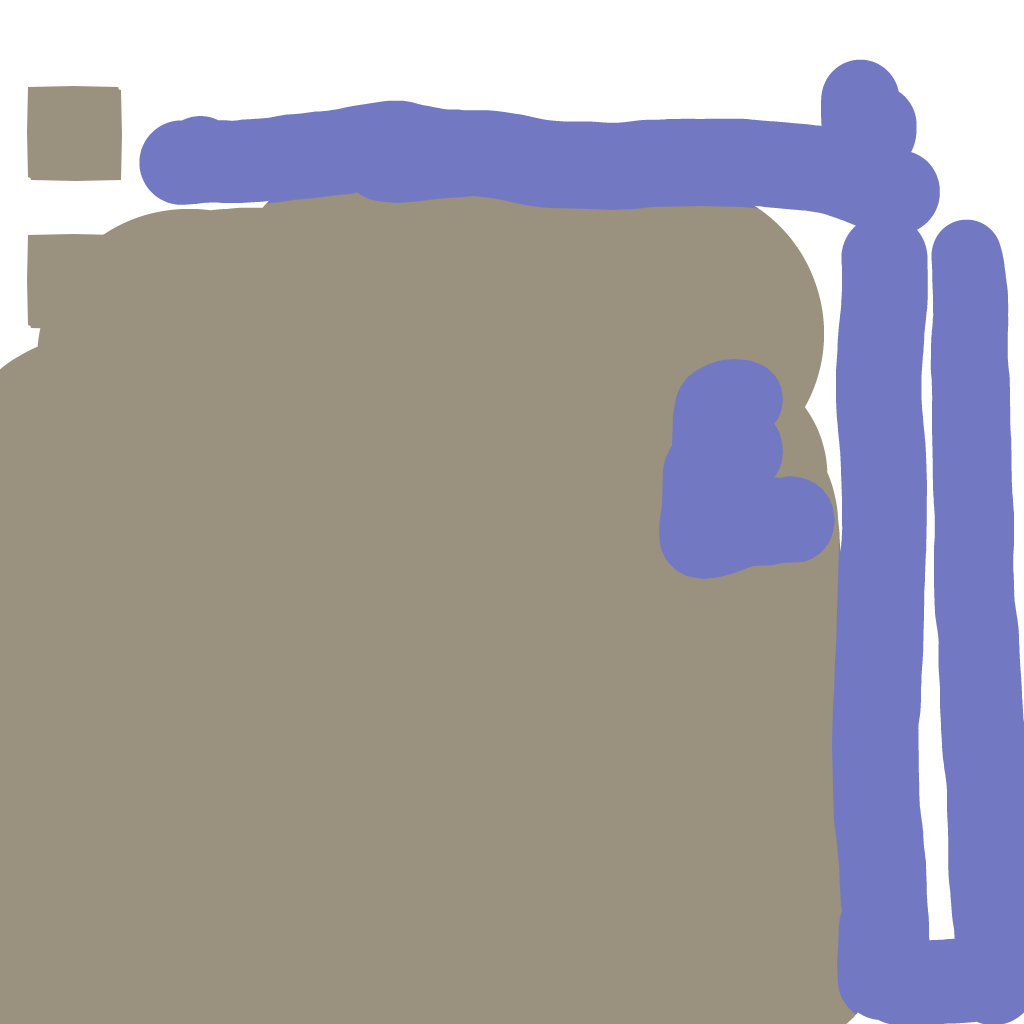
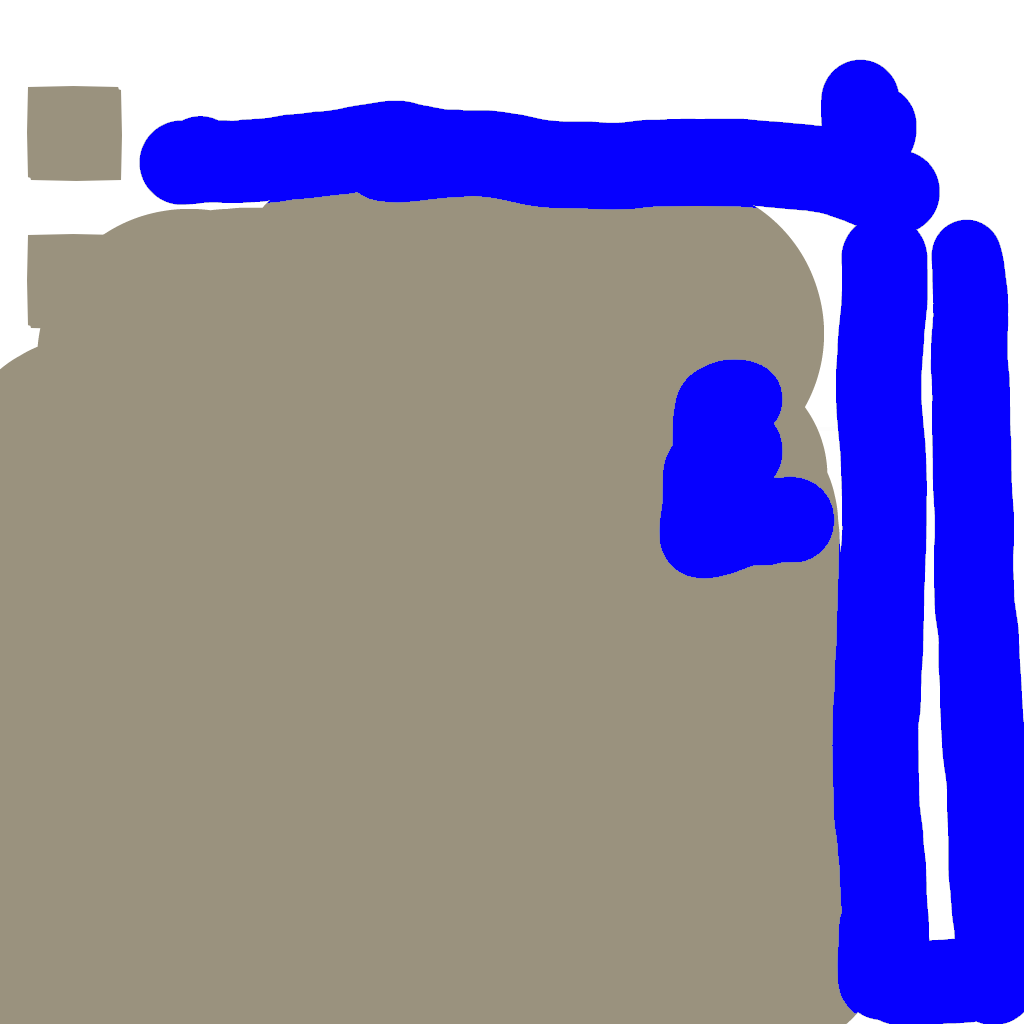
セレクトからタイトル戻る処理

Changed region(s): [[0.125, 0.0625, 1.0, 1.0]]

diff --git a/scene/SelectScene.cpp b/scene/SelectScene.cpp
@@ -169,6 +169,15 @@ void SelectScene::ChangeScene()
 			sceneManager_->NextSceneReservation("GAME");
 		}
 	}
+	if (input_->TriggerKey(DIK_ESCAPE)) {
+		sceneManager_->NextSceneReservation("TITLE");
+	}
+	XINPUT_STATE joyState;
+	if (input_->GetJoystickState(0, joyState)) {
+		if (joyState.Gamepad.wButtons & XINPUT_GAMEPAD_B) {
+			sceneManager_->NextSceneReservation("TITLE");
+		}
+	}
 }
 
 void SelectScene::MapLoad()
